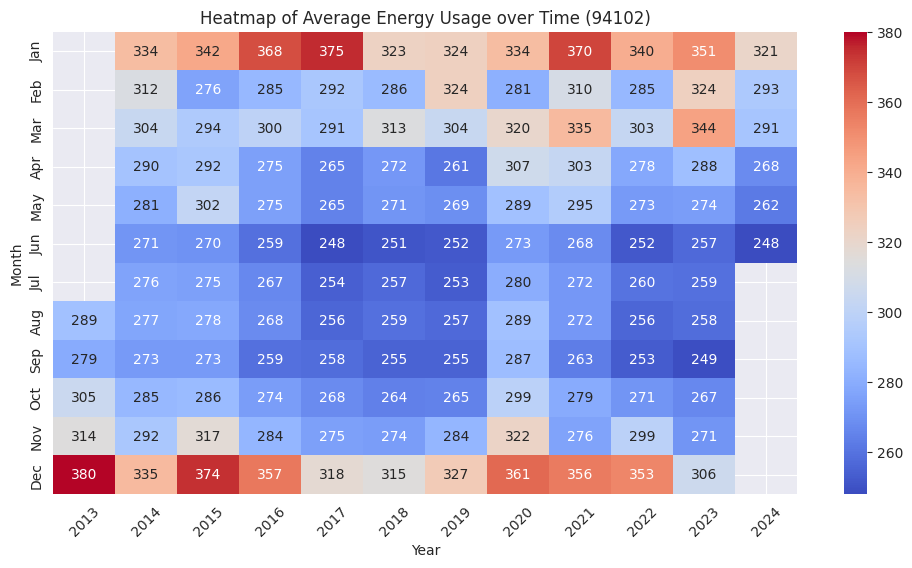
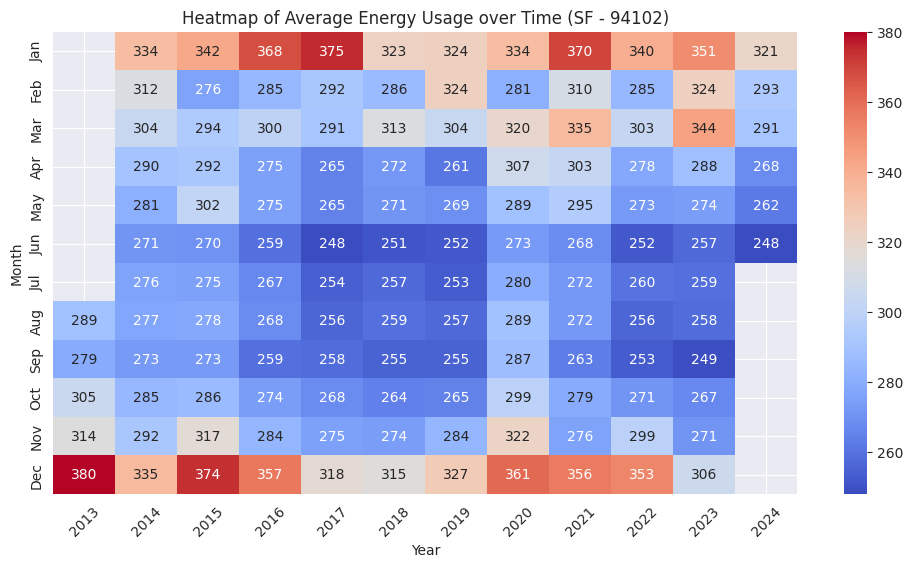
Updating project proposal cont -3

Changed region(s): [[0.2149, 0.0, 0.7368, 0.0599]]

diff --git a/docs/project-doc.md b/docs/project-doc.md
@@ -87,24 +87,33 @@ The following sections should be used for the full proposal document. These are 
 	- Energy
 		- Distribution of Energy Usage:
 			- For both San Jose (SJ) and San Francisco (SF), I will visualize the distribution of average energy usage using Histogram and Kernel Density Estimation (KDE) plots.
-			- These provide insights into how energy usage varies across the regions. Understanding the central tendency, spread, and skewness of energy usage helps identify patterns or anomalies in the data.
+			- The visualizations will help us understand how energy usage varies across the regions.
+			- It will depict the central tendency, spread, and skewn of energy usage - we can use these to identify patterns or trends in the data.
 			
 			- [SJ - Hist/KDE: Average Energy Usage](/docs/assets/images/Hist_Avg_Energy_Usage_95110.png)
 			- [SF - Hist/KDE: Average Energy Usage](/docs/assets/images/Hist_Avg_Energy_Usage_94102.png)
 
 		- Heatmap of Energy Usage:
 			- I will create a heatmap that visualizes energy usage over time, with years on the x-axis and months on the y-axis.
-			- This will show patterns in energy consumption and any long-term trends that emerge over the years. Coupled with weather statistics, potentially providing evidence of climate-related shifts in energy usage.
+			- This will show patterns in energy consumption and any long-term trends that emerge over the years.
+			- Coupled with weather statistics, potentially providing evidence of climate-related shifts in energy usage.
 			
 			- [SJ - Heatmap: Average Energy Usage](/docs/assets/images/Heatmap_Avg_Energy_Usage_95110.png)
 			- [SF - Heatmap: Average Energy Usage](/docs/assets/images/Heatmap_Avg_Energy_Usage_94102.png)
 
 	- Weather
 		- Distribution of Average Maximum and Minimum Temperatures:
-			- 
+			- Similar to the energy visualizations, I will create histogram and KDE plots to display the distributions of the average maximum and average minimum temperatures in each region.
+
+			- [SJ - Hist/KDE: Average Max Temperature](/docs/assets/images/Hist_Avg_Max_Temp_95110.png)	[SJ - Hist/KDE: Average Min Temperature](/docs/assets/images/Hist_Avg_Min_Temp_95110.png)
+			- [SF - Hist/KDE: Average Max Temperature](/docs/assets/images/Hist_Avg_Max_Temp_94102.png)	[SF - Hist/KDE: Average Min Temperature](/docs/assets/images/Hist_Avg_Min_Temp_94102.png)
 
 		- Heatmap of Average Maximum and Minimum Temperatures:
-			- 
+			- Again, like the energy visualizations, I will show the temperature trends over time in each region (SJ and SF).
+
+			- [SJ - Heatmap: Average Max Temperature](/docs/assets/images/Heatmap_Avg_Max_Temp_95110.png)	[SJ - Heatmap: Average Min Temperature](/docs/assets/images/Heatmap_Avg_Min_Temp_95110.png)
+			- [SF - Heatmap: Average Max Temperature](/docs/assets/images/Heatmap_Avg_Max_Temp_94102.png)	[SF - Heatmap: Average Min Temperature](/docs/assets/images/Heatmap_Avg_Min_Temp_94102.png)
+
 
 	- Combined:
 		- Average Monthly Energy Usage and Temperature Comparison:
